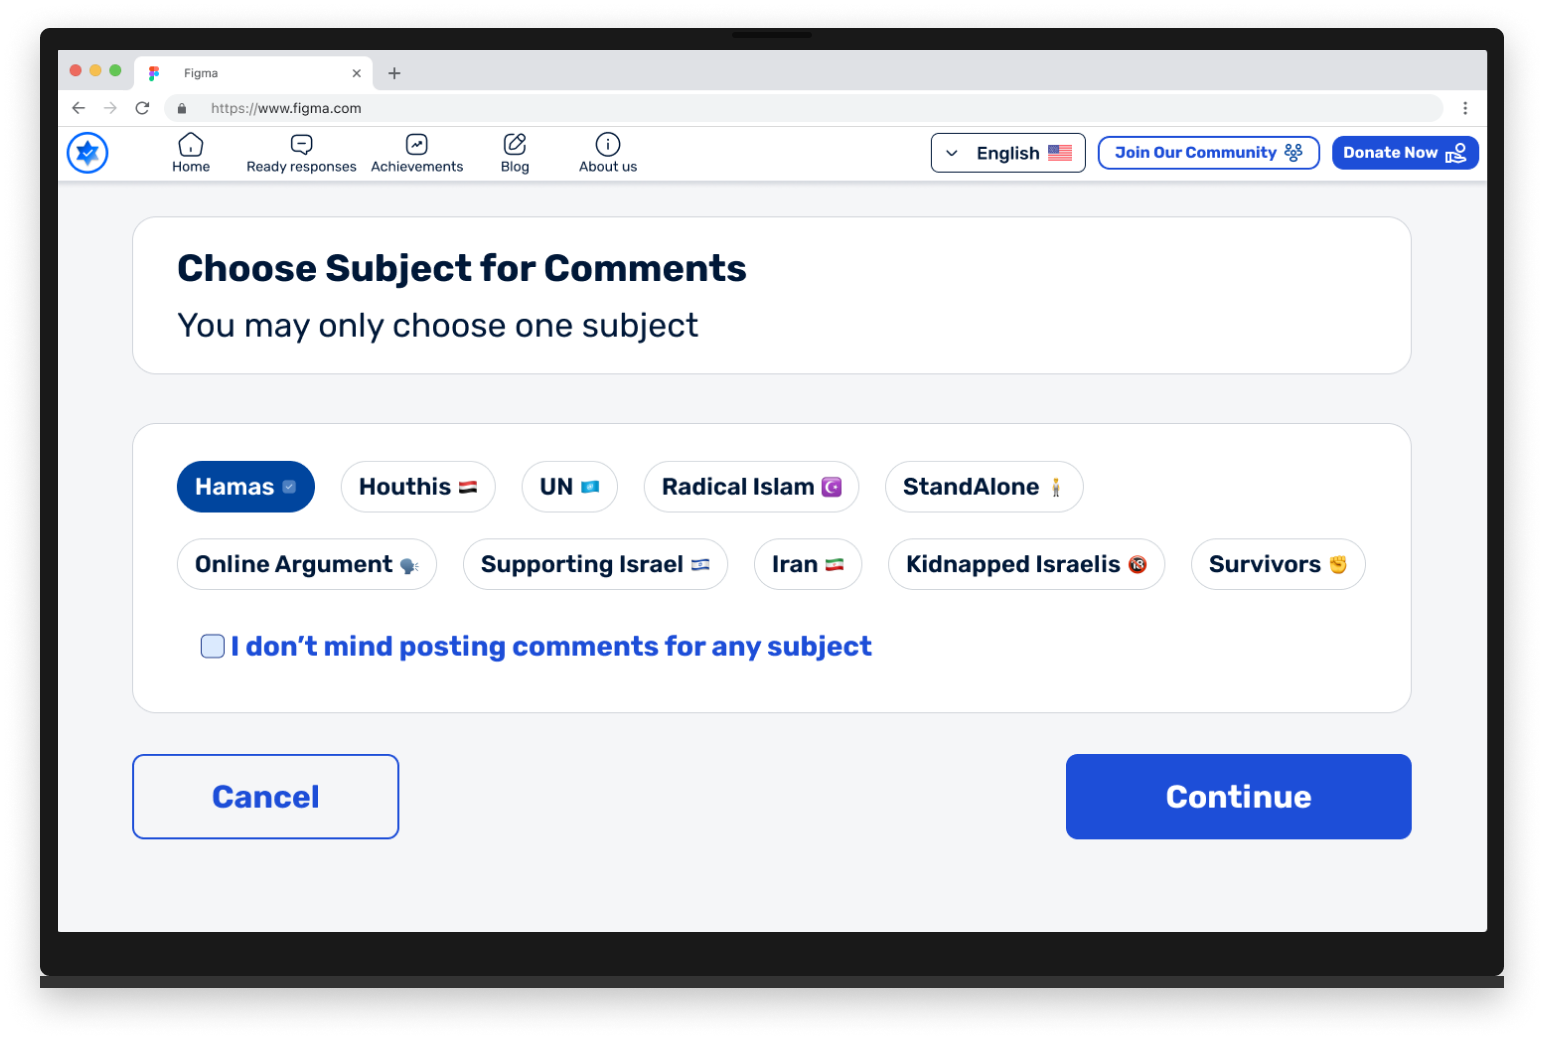
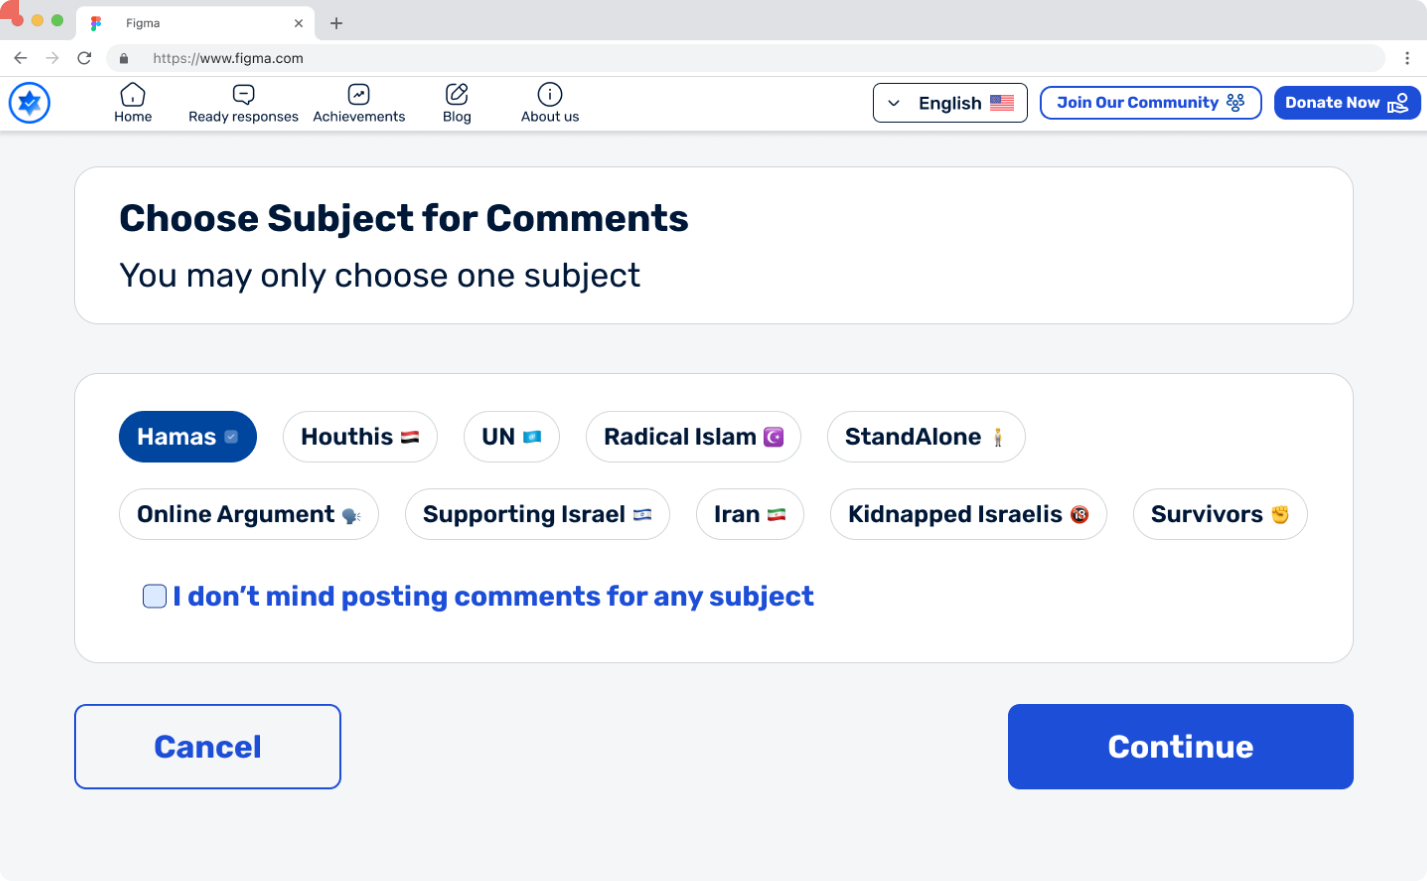
Revert Sharing Preferences/Reporting layout to handoff-v2 per updated instructions (#38)
* Revert Sharing Preferences/Reporting layout to handoff-v2 per updated instructions

- Restored Sharing_Preference_Group.png as the primary standalone
  Groups shot in Sharing Preferences, with its SAME LIST label back
  above the row-actions/mobile pair.
- Moved Subject_Comment_Mockup.png back out of Sharing Preferences
  into Premade Comments & the Switcher, before Premade_comments.png.
- Reverted the Reporting Settings-menu pair from height-matching back
  to matched-width 220px, since that pair was always meant to read as
  a small secondary aside rather than a primary shot.

* Replace Premade_comments.png with fixed export, add Premade_comments_Copied.png

The reshared Premade_comments.png now correctly shows facts-commando.com
instead of figma.com. Applied the same window-edge crop and clean
rounded-corner treatment used on the rest of the gallery.

Added the new Premade_comments_Copied.png (comment-copied confirmation)
as a second image in the same flex row, right after Premade_comments.png.
Used the borderless img style (border + shadow, no card wrapper) to
match its now-cropped sibling, rather than the boxed style originally
specified, since that would have looked inconsistent within the same
row.

* Crop Subject_Comment_Mockup.png to the window edge

Same black canvas/glow issue as the other three Premade Comments
images, now fixed with the same window-edge crop and clean
rounded-corner treatment. Still shows 'Figma' in the tab/URL bar since
[…]

diff --git a/facts-commando.html b/facts-commando.html
@@ -170,7 +170,8 @@
           <h3 style="font-family: var(--font-heading); font-size: 20px; letter-spacing: -0.025em; font-weight: 600; color: var(--text-primary); margin: 0 0 6px;">Sharing Preferences</h3>
           <p style="margin-bottom: 20px; font-size: 16px;">The silent rejection becomes an explicit, editable choice - subjects on one tab, groups on the other, each one reportable or removable straight from the list.</p>
           <img class="zoomable" data-group="sharing-preferences" data-cap="Subjects a volunteer will put their name behind - the interview finding, made operable." src="./case-images/Sharing_Preference.png?v=2x" alt="Subject preferences" style="max-width:600px; width:100%; display:block; margin:0 auto 16px; border-radius:10px; border:1px solid var(--border-subtle); box-shadow:var(--shadow-lg);">
-          <img class="zoomable" data-group="sharing-preferences" data-cap="Comments carry the same subject choice as posts." src="./case-images/Subject_Comment_Mockup.png?v=2x" alt="Choose subject for comments" style="max-width:460px; width:100%; display:block; margin:0 auto 48px; border-radius:10px; border:1px solid var(--border-subtle); box-shadow:var(--shadow-lg);">
+          <img class="zoomable" data-group="sharing-preferences" data-cap="Group-level control, desktop." src="./case-images/Sharing_Preference_Group.png?v=2x" alt="Group preferences, desktop" style="max-width:460px; width:100%; display:block; margin:0 auto 16px; border-radius:10px; border:1px solid var(--border-subtle); box-shadow:var(--shadow-lg);">
+          <p style="font-family:var(--font-mono); font-size:11px; color:var(--text-muted); margin:4px 0 12px; text-align:center;">SAME LIST, REPORT OR REMOVE PER ROW</p>
           <div style="display:flex; flex-wrap:wrap; justify-content:center; align-items:flex-end; gap:24px; margin-bottom:48px;">
             <img class="zoomable h-match" data-group="sharing-preferences" data-cap="Report or remove, right from the row - no separate settings screen." src="./case-images/Sharing_Preference_Group_Actions.png?v=2x" alt="Group row actions, desktop" style="display:block; border-radius:10px; border:1px solid var(--border-subtle); box-shadow:var(--shadow-lg);">
             <img class="zoomable h-match" data-group="sharing-preferences" data-cap="Same actions, mobile." src="./case-images/mobile_Sharing_preference.png?v=2x" alt="Group preferences, mobile" style="display:block; border-radius:10px; border:1px solid var(--border-subtle); box-shadow:var(--shadow-lg);">
@@ -197,8 +198,8 @@
           <h3 style="font-family: var(--font-heading); font-size: 20px; letter-spacing: -0.025em; font-weight: 600; color: var(--text-primary); margin: 0 0 6px;">Reporting</h3>
           <p style="margin-bottom: 20px;">Named reasons instead of a free-text box, so reports arrive already sorted - technical errors on one side, group-level problems like bans and denied posts on the other. No relay, no one to remember.</p>
           <div style="display:flex; flex-wrap:wrap; justify-content:center; align-items:flex-end; gap:24px; margin-bottom:8px;">
-            <img class="zoomable h-match" data-group="reporting" data-cap="The same entry point, desktop." src="./case-images/Settings_menu_Desktop.png?v=2x" alt="Settings menu, entry point to Reports, desktop" style="display:block; border-radius:10px; border:1px solid var(--border-subtle); box-shadow:var(--shadow-lg);">
-            <img class="zoomable h-match" data-group="reporting" data-cap="Where reporting lives - inside the profile, not a help page." src="./case-images/Settings_menu.png?v=2x" alt="Settings menu, entry point to Reports" style="display:block; border-radius:10px; border:1px solid var(--border-subtle); box-shadow:var(--shadow-lg);">
+            <img class="zoomable" data-group="reporting" data-cap="The same entry point, desktop." src="./case-images/Settings_menu_Desktop.png?v=2x" alt="Settings menu, entry point to Reports, desktop" style="width:220px; max-width:100%; display:block; border-radius:10px; border:1px solid var(--border-subtle); box-shadow:var(--shadow-lg);">
+            <img class="zoomable" data-group="reporting" data-cap="Where reporting lives - inside the profile, not a help page." src="./case-images/Settings_menu.png?v=2x" alt="Settings menu, entry point to Reports" style="width:220px; max-width:100%; display:block; border-radius:10px; border:1px solid var(--border-subtle); box-shadow:var(--shadow-lg);">
           </div>
           <p style="font-family:var(--font-mono); font-size:11px; color:var(--text-muted); margin:0 0 24px; text-align:center;">ENTRY POINT, BOTH WIDTHS</p>
           <div style="display:flex; flex-wrap:wrap; justify-content:center; align-items:flex-end; gap:24px; margin-bottom:24px;">
@@ -227,7 +228,11 @@
 
           <h3 style="font-family: var(--font-heading); font-size: 20px; letter-spacing: -0.025em; font-weight: 600; color: var(--text-primary); margin: 0 0 6px;">Premade Comments &amp; the Switcher</h3>
           <p style="margin-bottom: 20px;">Premade Comments post a ready-made, swappable argument per subject. The Switcher confirms the destination - Facebook, then X.</p>
-          <img class="zoomable" data-group="premade-comments-switcher" data-cap="Specified with the UX designer, designed per platform." src="./case-images/Premade_comments.png?v=2x" alt="Premade Comments" style="max-width:460px; width:100%; display:block; margin:0 auto 16px; border-radius:10px; border:1px solid var(--border-subtle); box-shadow:var(--shadow-lg);">
+          <img class="zoomable" data-group="premade-comments-switcher" data-cap="Comments carry the same subject choice as posts." src="./case-images/Subject_Comment_Mockup.png?v=2x" alt="Choose subject for comments" style="max-width:460px; width:100%; display:block; margin:0 auto 16px; border-radius:10px; border:1px solid var(--border-subtle); box-shadow:var(--shadow-lg);">
+          <div style="display:flex; flex-wrap:wrap; justify-content:center; align-items:flex-start; gap:24px; margin-bottom:16px;">
+            <img class="zoomable" data-group="premade-comments-switcher" data-cap="Specified with the UX designer, designed per platform." src="./case-images/Premade_comments.png?v=2x" alt="Premade Comments" style="max-width:460px; width:100%; display:block; border-radius:10px; border:1px solid var(--border-subtle); box-shadow:var(--shadow-lg);">
+            <img class="zoomable" data-group="premade-comments-switcher" data-cap="The same copy-and-paste pattern as posts, for comments." src="./case-images/Premade_comments_Copied.png?v=2x" alt="Comment copied confirmation" style="max-width:460px; width:100%; display:block; border-radius:10px; border:1px solid var(--border-subtle); box-shadow:var(--shadow-lg);">
+          </div>
           <div style="display:flex; flex-wrap:wrap; justify-content:center; align-items:flex-start; gap:24px; margin-bottom:12px;">
             <img class="zoomable" data-group="premade-comments-switcher" data-cap="Facebook, the original network." src="./case-images/Facebook_Switcher.png?v=2x" alt="The Switcher, Facebook" style="max-width:400px; width:100%; display:block; border-radius:10px; border:1px solid var(--border-subtle); box-shadow:var(--shadow-lg);">
             <img class="zoomable" data-group="premade-comments-switcher" data-cap="X added alongside it - a pattern, not a toggle." src="./case-images/X_Switcher.png?v=2x" alt="The Switcher, X" style="max-width:400px; width:100%; display:block; border-radius:10px; border:1px solid var(--border-subtle); box-shadow:var(--shadow-lg);">
